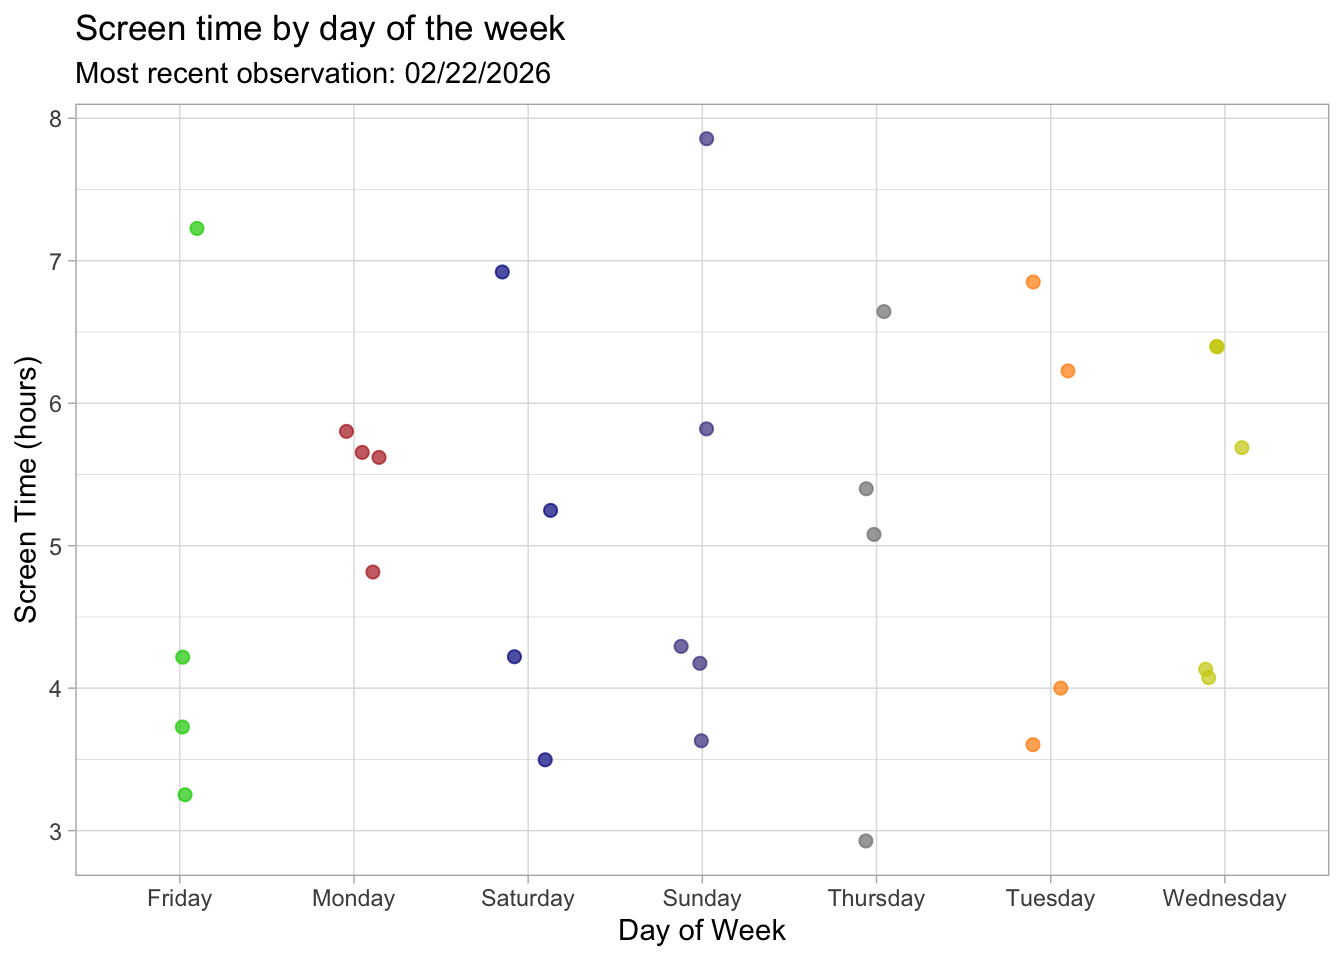
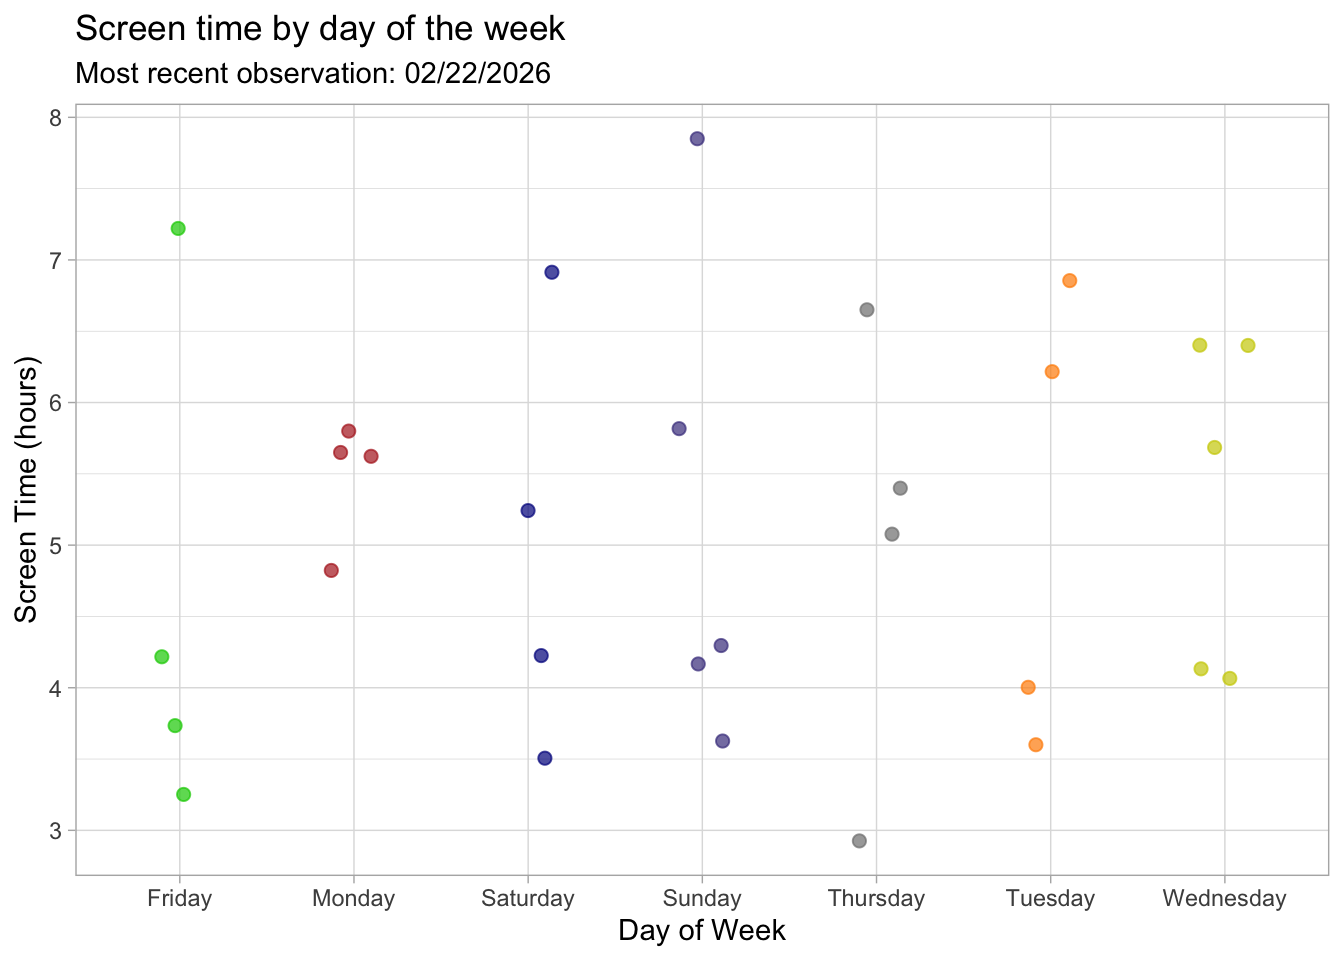
reworked visualization idea and redid sketch, added rough draft of visualization

diff --git a/code/homework-03.html b/code/homework-03.html
@@ -140,6 +140,7 @@ window.Quarto = {
   <ul class="collapse">
   <li><a href="#a.-describe-in-words-what-an-affective-visualization-could-look-like-for-your-personal-data" id="toc-a.-describe-in-words-what-an-affective-visualization-could-look-like-for-your-personal-data" class="nav-link" data-scroll-target="#a.-describe-in-words-what-an-affective-visualization-could-look-like-for-your-personal-data">a. Describe in words what an affective visualization could look like for your personal data</a></li>
   <li><a href="#b.-create-a-sketch-on-paper-of-your-idea." id="toc-b.-create-a-sketch-on-paper-of-your-idea." class="nav-link" data-scroll-target="#b.-create-a-sketch-on-paper-of-your-idea.">b. Create a sketch (on paper) of your idea.</a></li>
+  <li><a href="#c.-rough-draft" id="toc-c.-rough-draft" class="nav-link" data-scroll-target="#c.-rough-draft">c.&nbsp;Rough draft</a></li>
   </ul></li>
   </ul>
 </nav>
@@ -445,16 +446,19 @@ sample estimates:
 <h1>Problem 3: Affective visualization</h1>
 <section id="a.-describe-in-words-what-an-affective-visualization-could-look-like-for-your-personal-data" class="level2">
 <h2 class="anchored" data-anchor-id="a.-describe-in-words-what-an-affective-visualization-could-look-like-for-your-personal-data">a. Describe in words what an affective visualization could look like for your personal data</h2>
-<p>An affective visualization of my personal screen time data could focus on showing how different days felt rather than just showing numerical patterns. For example, I could use color gradients to represent mood or energy levels based on sleep time the night before, with softer colors for well-rested days and darker/more intense colors for more tired days. This would make the data feel more personal and reflective rather than purely statistical.</p>
+<p>An affective visualization of my personal screen time data could focus on showing how different days could have been overwhelming based on what I had going on in the day (studying for midterms, dealing with a busy schedule, etc.) and how it would have felt and impacted my screen time rather than just showing numerical patterns. For example, I could make a visualization similar to Giorgia Lupi’s “A week of goodbyes” visualization which would have a different shape for low to high hours on my phone, different colors for how much study/class time I had that day, an additional figure in the corner to represent whether I had an upcoming exam, or another additional symbol to show whether I had social plans.</p>
 </section>
 <section id="b.-create-a-sketch-on-paper-of-your-idea." class="level2">
 <h2 class="anchored" data-anchor-id="b.-create-a-sketch-on-paper-of-your-idea.">b. Create a sketch (on paper) of your idea.</h2>
 <div class="quarto-figure quarto-figure-center">
 <figure class="figure">
-<p><img src="affective.png" class="img-fluid figure-img"></p>
+<p><img src="affective1.png" class="img-fluid figure-img"></p>
 <figcaption>Affective visualization sketch</figcaption>
 </figure>
 </div>
+</section>
+<section id="c.-rough-draft" class="level2">
+<h2 class="anchored" data-anchor-id="c.-rough-draft">c.&nbsp;Rough draft</h2>
 </section>
 </section>
 
